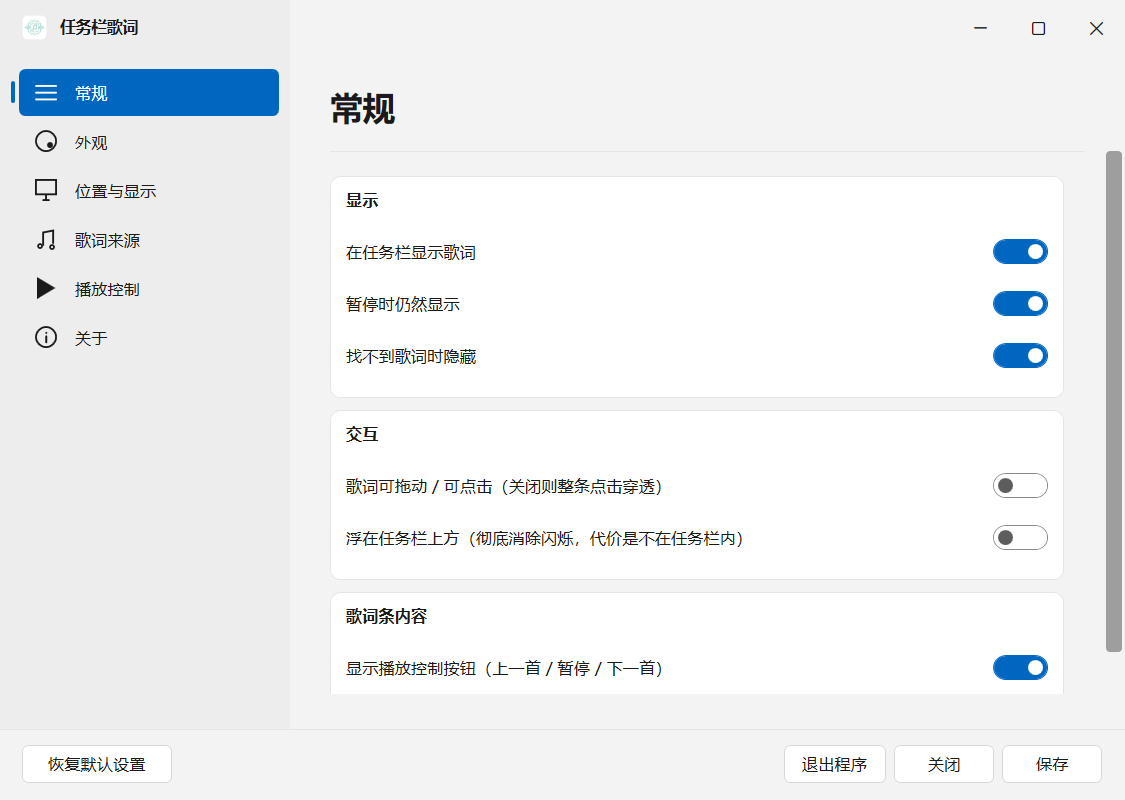
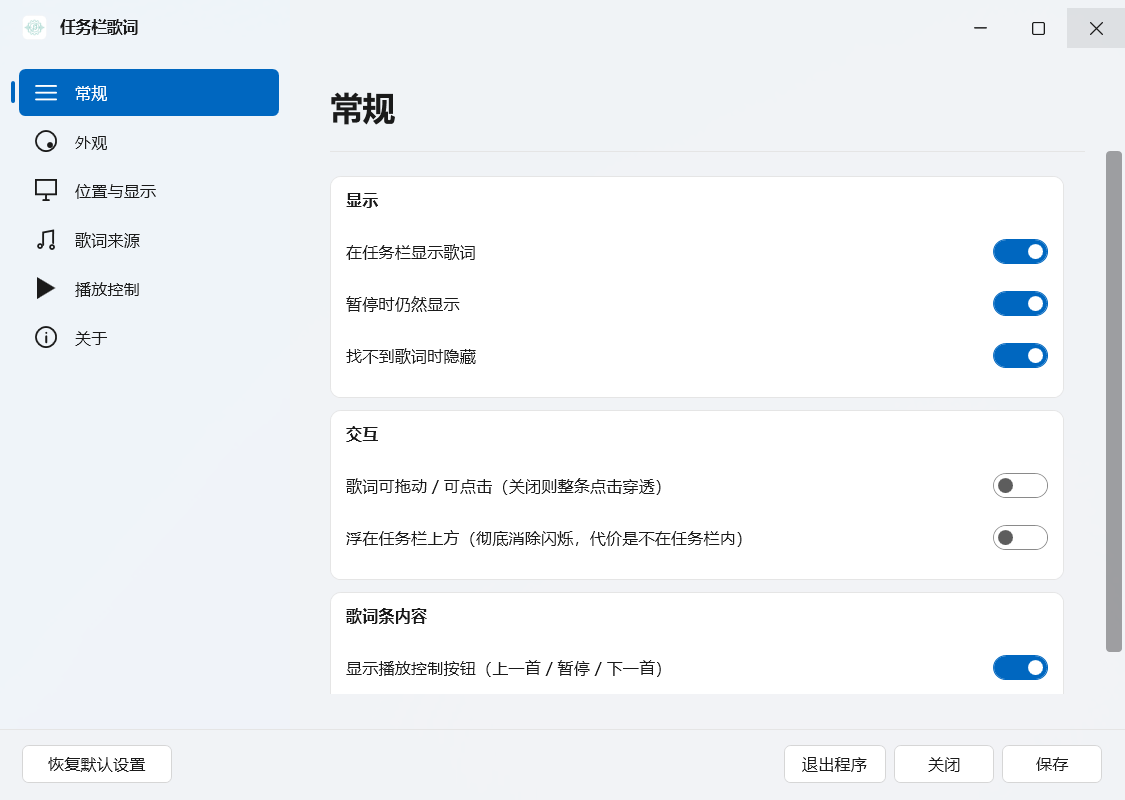
Fix the black nav pane: WindowChrome was cancelling the Mica frame
Reported from a screenshot: the settings window rendered with a pure black
navigation pane. The Mica backdrop was not being composited at all.

Cause: the title-bar merge added WindowChrome with GlassFrameThickness="0",
which sets the DWM glass frame to zero and thereby overrode the
DwmExtendFrameIntoClientArea call in FluentChrome. With the frame cancelled the
backdrop had nowhere to render, so every transparent surface - the nav pane in
full, and the content layer over it - composited against black.

Set to -1, which means "extend the frame over the whole window": WindowChrome
now applies the sheet of glass itself instead of wiping it out.

This slipped through because the earlier check was not a real check. It read
DWMWA_SYSTEMBACKDROP_TYPE back and saw 2, which only proves the OS accepted the
request - it says nothing about whether anything is composited. The window was
never actually looked at.

Verified properly this time, by sampling composited screen pixels with GetPixel
on the screen DC (what is on screen, rather than what the app painted or what an
API reported):

  Mica ON    nav pane 239,244,249   content 240,243,246
  Mica OFF   nav pane 237,237,237   content 255,255,255 (card)

The Mica path is measurably chromatic while the solid path is exactly neutral, so
the material is genuinely compositing the desktop behind it rather than showing a
flat fill.

docs/settings.png regenerated from the Mica build.

diff --git a/src/TaskbarLyrics.App/Views/SettingsWindow.xaml b/src/TaskbarLyrics.App/Views/SettingsWindow.xaml
@@ -26,7 +26,7 @@
         <WindowChrome CaptionHeight="44"
                       ResizeBorderThickness="6"
                       CornerRadius="0"
-                      GlassFrameThickness="0"
+                      GlassFrameThickness="-1"
                       UseAeroCaptionButtons="False" />
     </WindowChrome.WindowChrome>
 
